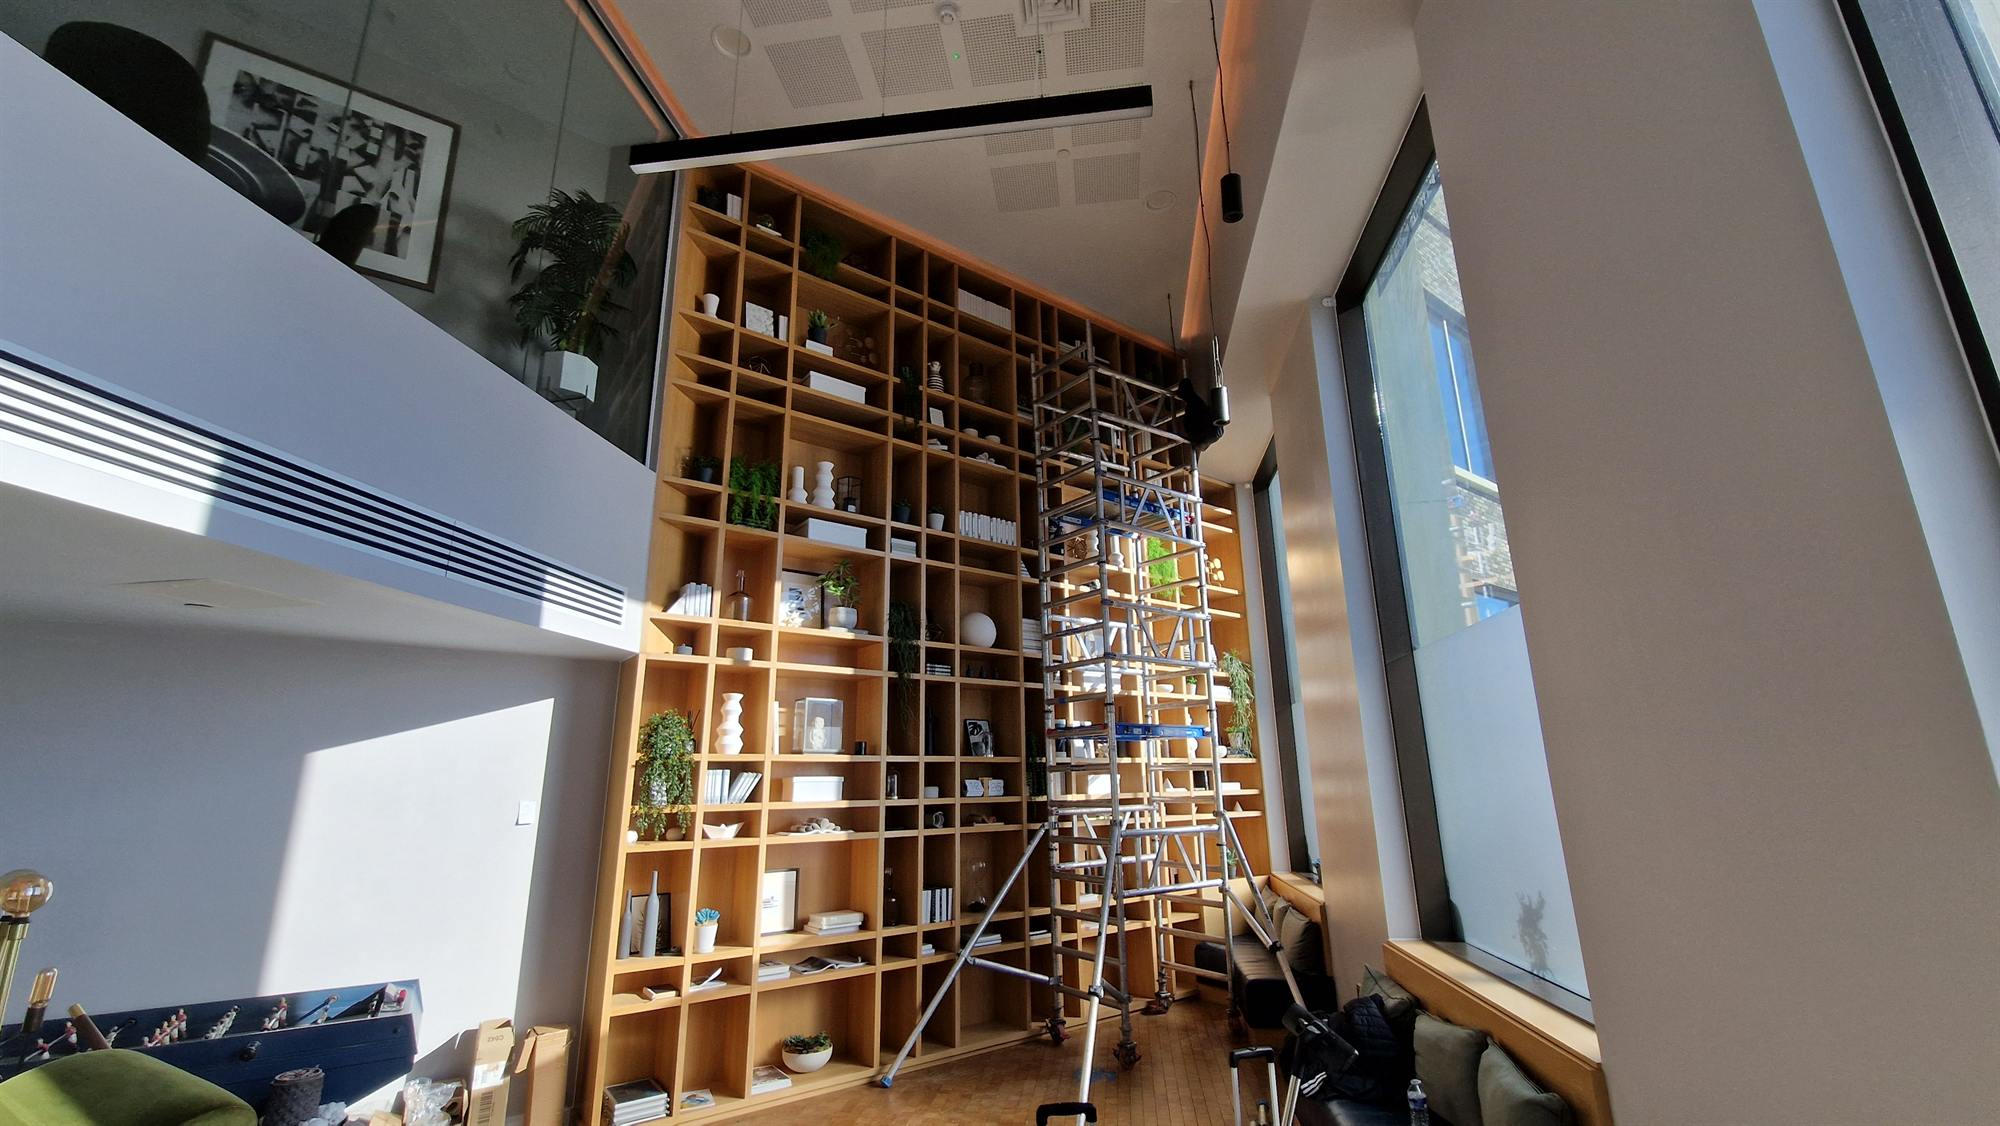
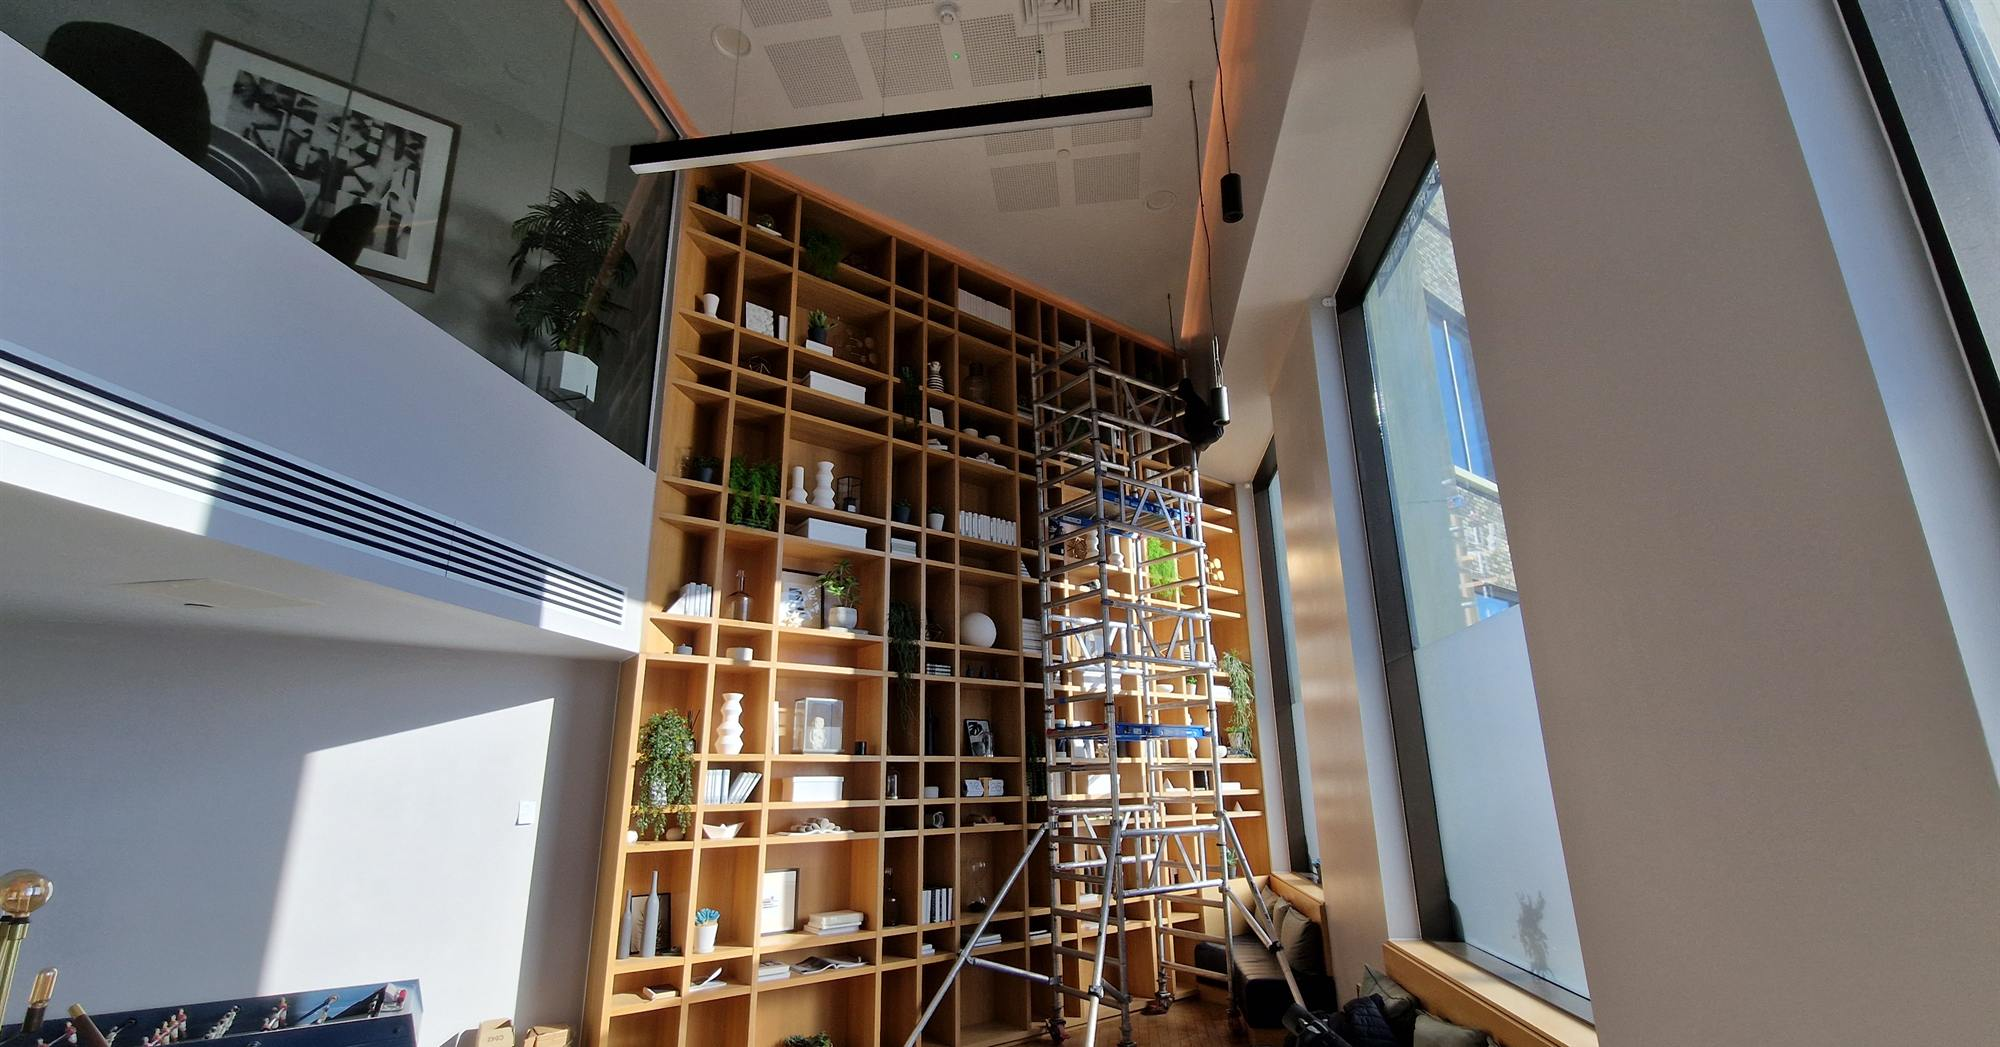
Crop 7 percent off the bottom of the main bookshelf photo
The frame size is unchanged, so the photo sits slightly closer and the
floor at the base is trimmed.

diff --git a/portfolio.html b/portfolio.html
@@ -65,7 +65,7 @@
       <div class="project-grid">
 
         <article class="project-card project-card--featured reveal">
-          <img class="project-photo" src="assets/portfolio-shelving.jpg" width="2000" height="1126" loading="lazy" decoding="async" alt="A floor-to-ceiling wooden shelving wall in a double-height interior, with a mobile access tower in front of it">
+          <img class="project-photo" src="assets/portfolio-shelving.jpg" width="2000" height="1047" loading="lazy" decoding="async" alt="A floor-to-ceiling wooden shelving wall in a double-height interior, with a mobile access tower in front of it">
           <div class="project-body">
             <p class="project-tag">Specialist cleaning</p>
             <h2>High-level shelving clean</h2>
